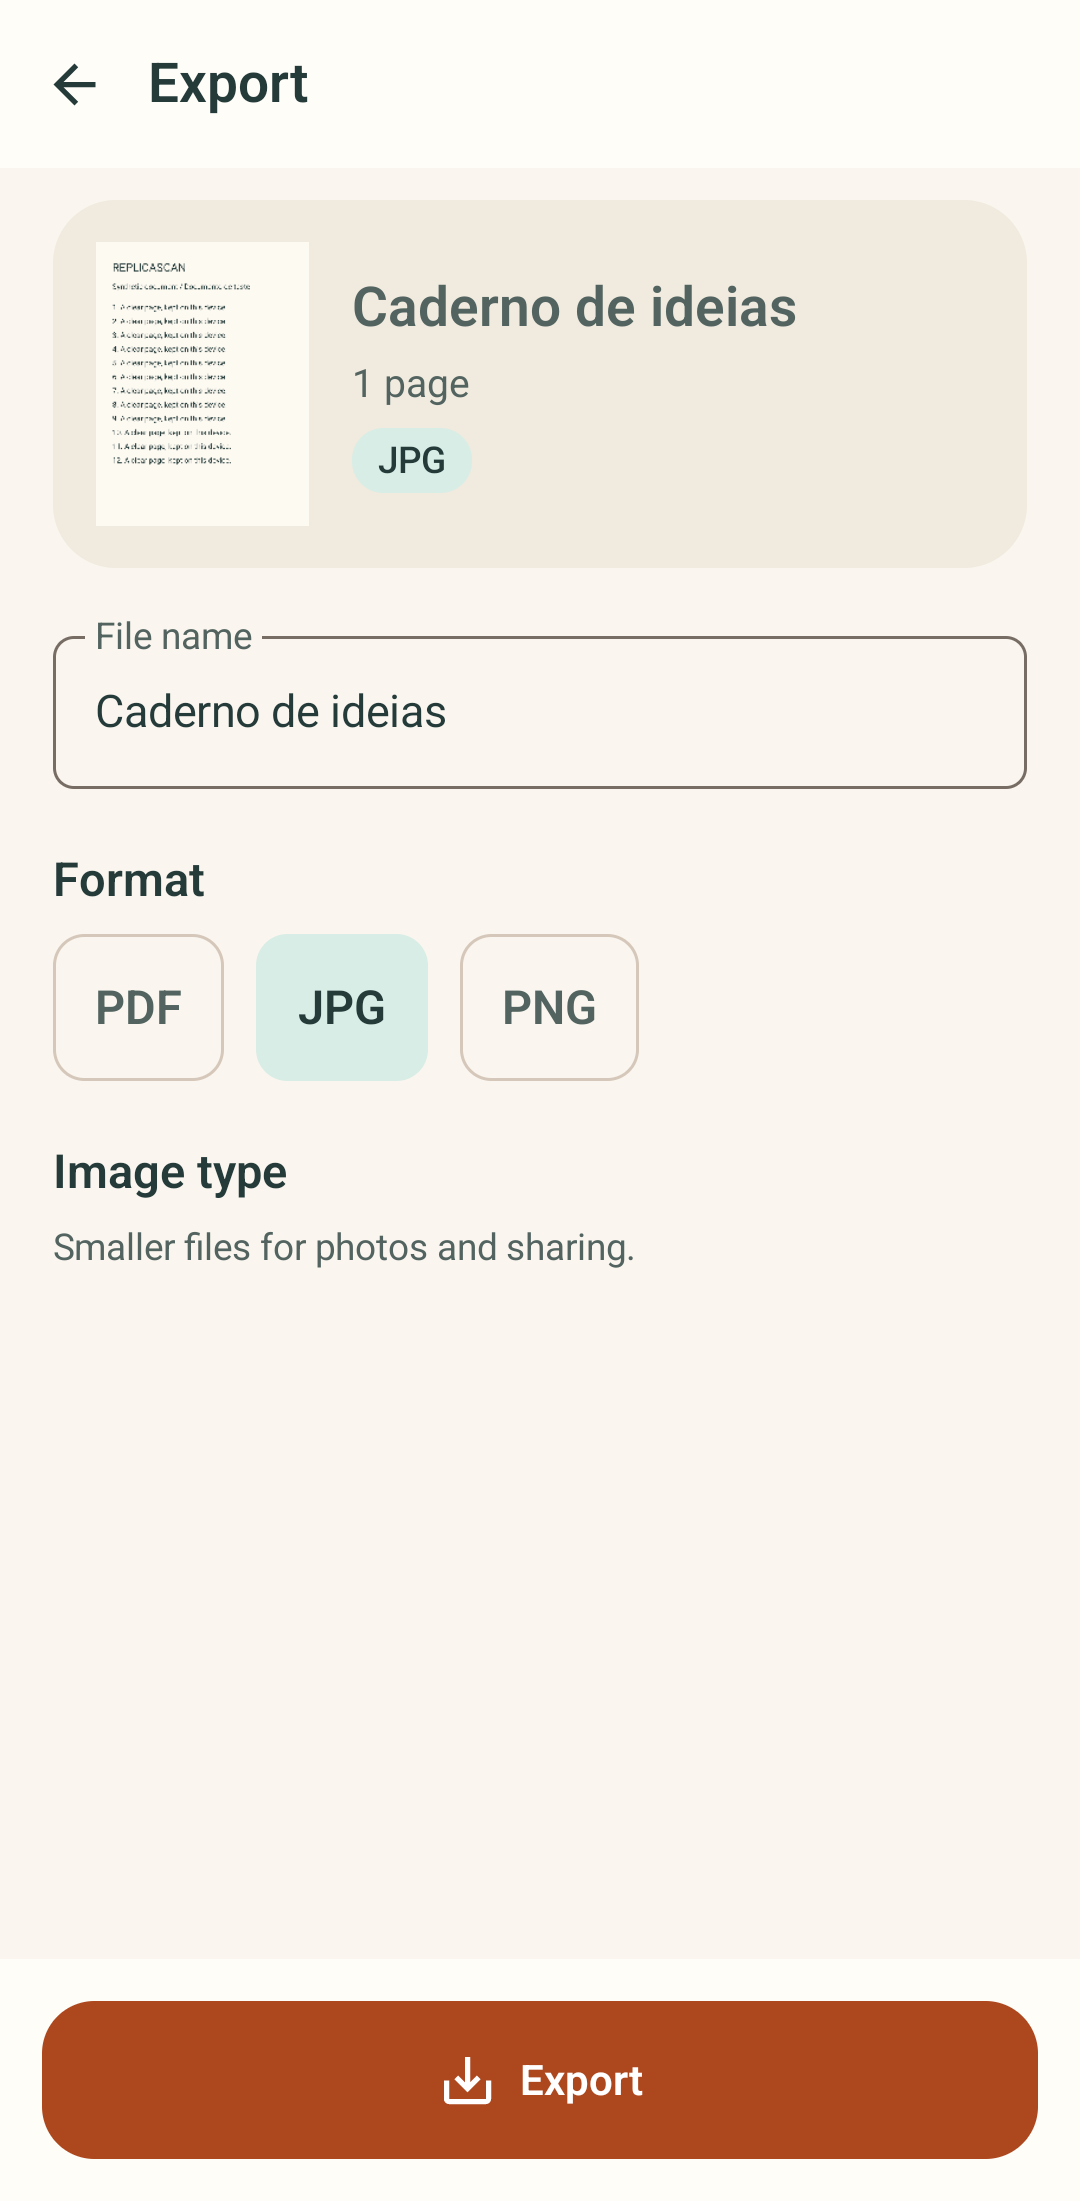
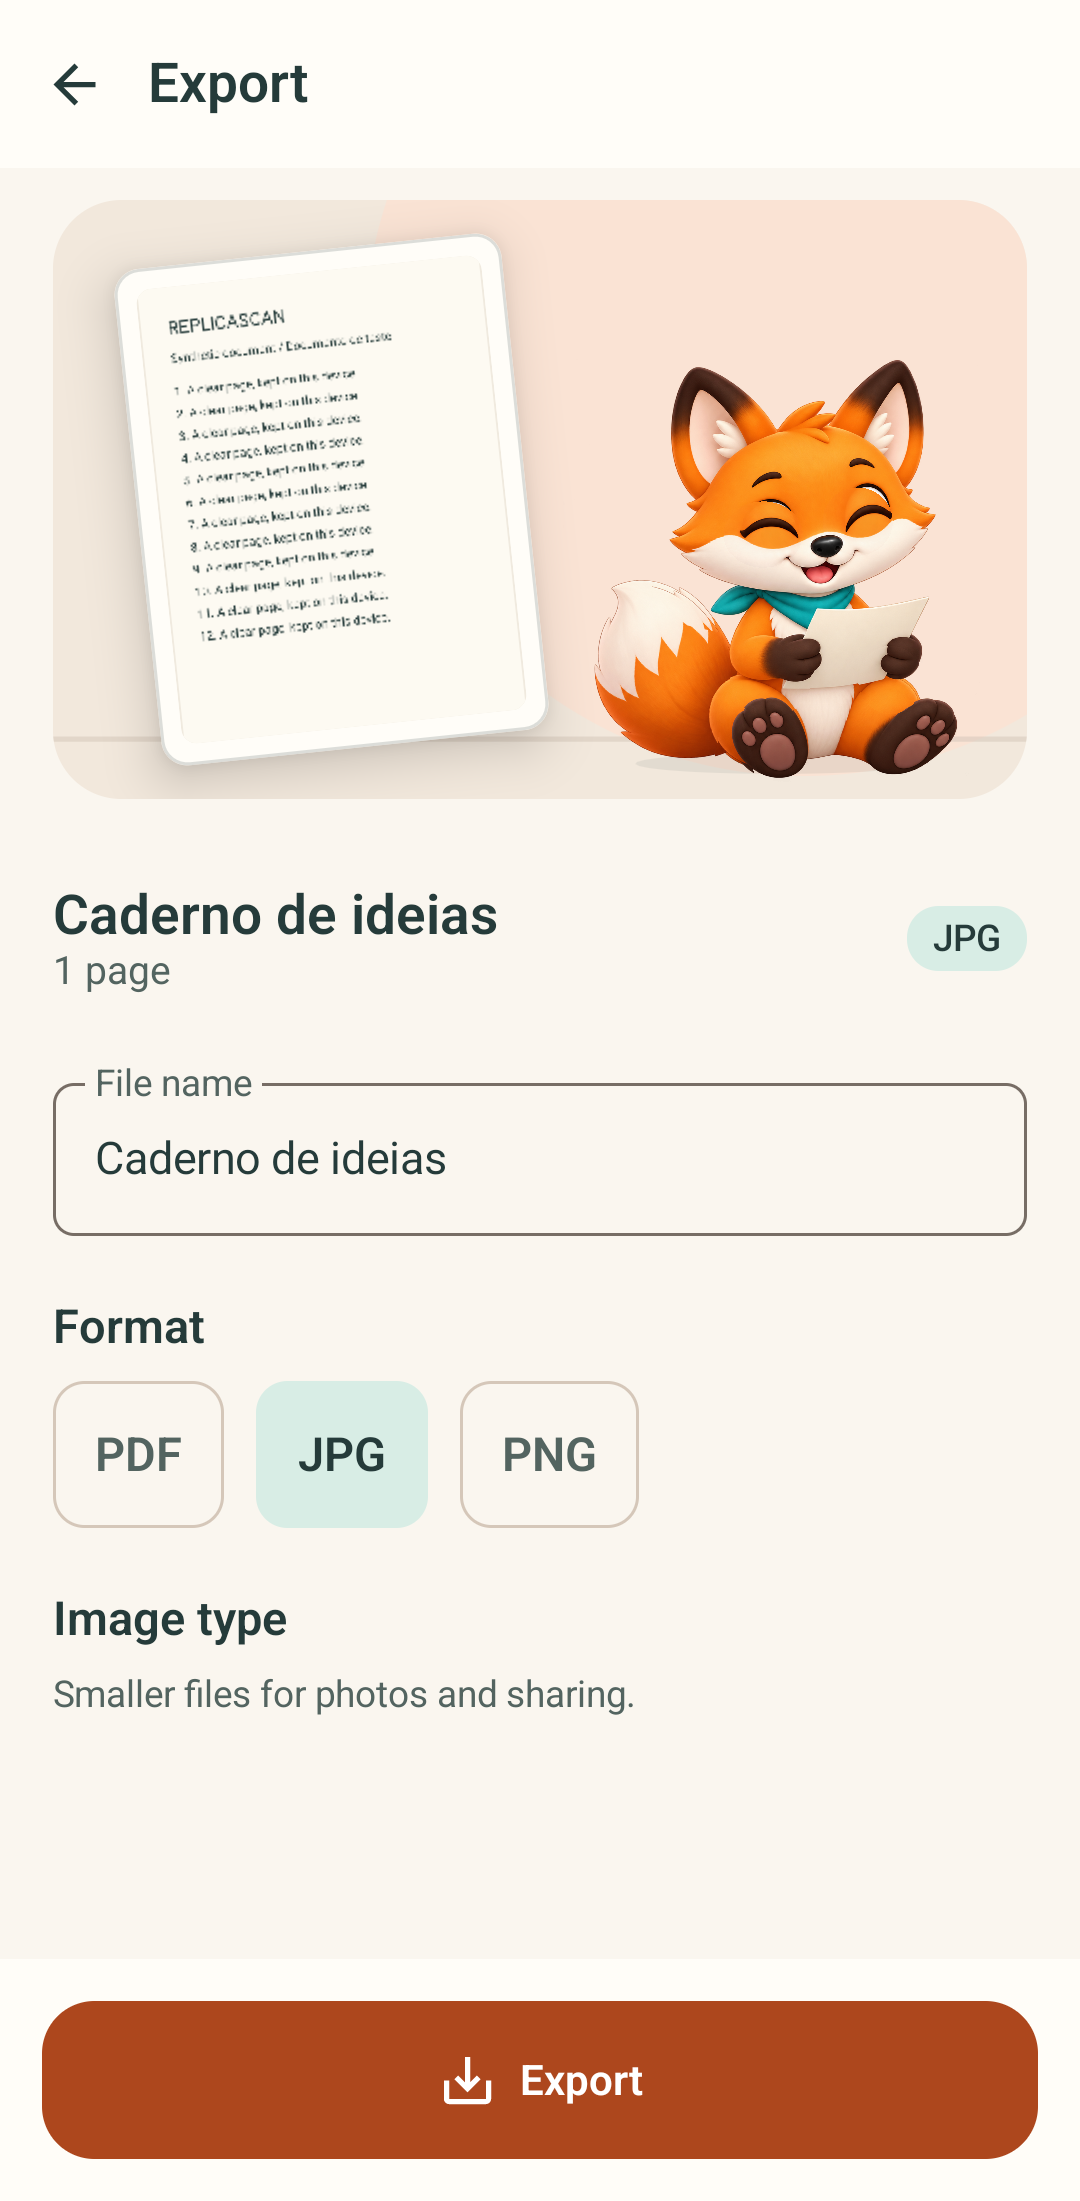
feat(export): connect native export states to document scene

diff --git a/feature-export/src/main/java/com/soturine/replicascan/feature/export/ExportScreen.kt b/feature-export/src/main/java/com/soturine/replicascan/feature/export/ExportScreen.kt
@@ -2,7 +2,11 @@ package com.soturine.replicascan.feature.export
 
 import androidx.activity.compose.BackHandler
 import androidx.compose.foundation.layout.Row
+import androidx.compose.foundation.layout.Box
 import androidx.compose.foundation.layout.size
+import androidx.compose.foundation.Canvas
+import androidx.compose.foundation.background
+import androidx.compose.foundation.border
 import androidx.compose.material3.OutlinedTextField
 import androidx.compose.ui.platform.testTag
 import androidx.compose.ui.layout.ContentScale
@@ -16,8 +20,10 @@ import androidx.compose.foundation.layout.FlowRow
 import androidx.compose.foundation.layout.Spacer
 import androidx.compose.foundation.layout.fillMaxSize
 import androidx.compose.foundation.layout.fillMaxWidth
+import androidx.compose.foundation.layout.height
 import androidx.compose.foundation.layout.heightIn
 import androidx.compose.foundation.layout.navigationBarsPadding
+import androidx.compose.foundation.layout.offset
 import androidx.compose.foundation.layout.padding
 import androidx.compose.foundation.layout.width
 import androidx.compose.foundation.rememberScrollState
@@ -50,6 +56,13 @@ import androidx.compose.runtime.saveable.rememberSaveable
 import androidx.compose.runtime.setValue
 import androidx.compose.ui.Alignment
 import androidx.compose.ui.Modifier
+import androidx.compose.ui.draw.clip
+import androidx.compose.ui.draw.shadow
+import androidx.compose.ui.geometry.Offset
+import androidx.compose.ui.graphics.graphicsLayer
+import androidx.compose.ui.graphics.luminance
+import androidx.compose.ui.platform.LocalDensity
+import androidx.compose.foundation.shape.RoundedCornerShape
 import androidx.compose.ui.res.pluralStringResource
 import androidx.compose.ui.res.stringResource
 import androidx.compose.ui.semantics.LiveRegionMode
@@ -149,7 +162,7 @@ fun ExportScreen(
             modifier = Modifier.fillMaxSize().padding(innerPadding),
         ) { done ->
             if (done == 2) {
-                ExportDone(state.exportedFiles, warning = messageText, onOpenFile = onOpenFile, onShare = onShare)
+                ExportDone(scan, state.exportedFiles, warning = messageText, onOpenFile = onOpenFile, onShare = onShare)
             } else if (done == 1) {
                 ExportProgress(scan)
             } else {
@@ -188,23 +201,42 @@ private fun ExportOptions(
         modifier = Modifier.fillMaxSize().verticalScroll(rememberScrollState()).padding(horizontal = 20.dp, vertical = 12.dp),
     ) {
         ReplicaScanContent {
-            Surface(shape = MaterialTheme.shapes.large, color = MaterialTheme.colorScheme.surfaceContainer) {
-                Row(Modifier.fillMaxWidth().padding(16.dp), verticalAlignment = Alignment.CenterVertically, horizontalArrangement = Arrangement.spacedBy(16.dp)) {
-                    AsyncUriImage(state.scan?.coverPage?.displayUri, fallbackImageUri = state.scan?.coverPage?.sourceUri,
-                        modifier = Modifier.size(82.dp, 108.dp), contentScale = ContentScale.Fit, maxDimension = 240)
-                    Column(Modifier.weight(1f), verticalArrangement = Arrangement.spacedBy(8.dp)) {
-                        Text(state.scan?.title.orEmpty(), style = MaterialTheme.typography.titleLarge)
-                        Text(pluralStringResource(R.plurals.export_summary, pageCount, pageCount),
-                            style = MaterialTheme.typography.bodyMedium, color = MaterialTheme.colorScheme.onSurfaceVariant)
-                        Surface(shape = MaterialTheme.shapes.small, color = MaterialTheme.colorScheme.secondaryContainer) {
-                            Text(state.selectedFormat.title, modifier = Modifier.padding(horizontal = 10.dp, vertical = 4.dp),
-                                style = MaterialTheme.typography.labelMedium)
-                        }
+            state.scan?.let { scan ->
+                ExportDocumentStage(
+                    scan = scan,
+                    mascotState = if (errorText == null) ReplicaScanMascotState.Ocr else ReplicaScanMascotState.Attention,
+                )
+                Row(
+                    Modifier.fillMaxWidth().padding(top = 16.dp, bottom = 8.dp),
+                    verticalAlignment = Alignment.CenterVertically,
+                    horizontalArrangement = Arrangement.spacedBy(12.dp),
+                ) {
+                    Column(Modifier.weight(1f)) {
+                        Text(scan.title, style = MaterialTheme.typography.titleLarge)
+                        Text(
+                            pluralStringResource(R.plurals.export_summary, pageCount, pageCount),
+                            style = MaterialTheme.typography.bodyMedium,
+                            color = MaterialTheme.colorScheme.onSurfaceVariant,
+                        )
+                    }
+                    Surface(shape = MaterialTheme.shapes.small, color = MaterialTheme.colorScheme.secondaryContainer) {
+                        Text(state.selectedFormat.title, modifier = Modifier.padding(horizontal = 10.dp, vertical = 4.dp),
+                            style = MaterialTheme.typography.labelMedium)
                     }
                 }
             }
             if (errorText != null) {
-                EmptyStateCard(stringResource(R.string.export_recovery), errorText, mascotState = ReplicaScanMascotState.Attention)
+                Column(
+                    Modifier.fillMaxWidth().background(
+                        MaterialTheme.colorScheme.error.copy(alpha = .08f),
+                        MaterialTheme.shapes.medium,
+                    ).padding(16.dp).semantics { liveRegion = LiveRegionMode.Polite },
+                    verticalArrangement = Arrangement.spacedBy(4.dp),
+                ) {
+                    Text(stringResource(R.string.export_recovery), style = MaterialTheme.typography.titleMedium,
+                        color = MaterialTheme.colorScheme.error)
+                    Text(errorText, style = MaterialTheme.typography.bodyMedium)
+                }
             }
             OutlinedTextField(value = fileName, onValueChange = onNameChange, modifier = Modifier.fillMaxWidth(),
                 label = { Text(stringResource(R.string.export_filename)) }, singleLine = true, isError = !nameValid,
@@ -279,6 +311,71 @@ private fun ExportOptions(
 }
 
 @Composable
+private fun ExportDocumentStage(scan: ScanDocument, mascotState: ReplicaScanMascotState) {
+    val colors = MaterialTheme.colorScheme
+    val largeText = LocalDensity.current.fontScale >= 1.5f
+    val isDark = colors.background.luminance() < .5f
+    val paperColor = if (isDark) colors.inverseSurface else colors.surface
+    val paperInk = if (isDark) colors.inverseOnSurface else colors.onSurface
+    val stageShape = RoundedCornerShape(26.dp)
+    val pageShape = RoundedCornerShape(10.dp)
+    val pageAlignment = if (largeText) Alignment.Center else Alignment.CenterStart
+    val pageInset = if (largeText) Modifier else Modifier.padding(start = 32.dp)
+    val pageWidth = if (largeText) 130.dp else 148.dp
+    val pageHeight = if (largeText) 164.dp else 190.dp
+    Box(
+        Modifier.fillMaxWidth().height(if (largeText) 188.dp else 228.dp)
+            .clip(stageShape).background(colors.surfaceContainerHigh),
+    ) {
+        Canvas(Modifier.matchParentSize()) {
+            drawCircle(
+                colors.primaryContainer.copy(alpha = .6f),
+                radius = size.width * .45f,
+                center = Offset(size.width * .77f, size.height * .23f),
+            )
+            drawLine(colors.outlineVariant.copy(alpha = .55f),
+                Offset(0f, size.height * .9f), Offset(size.width, size.height * .9f),
+                strokeWidth = 2.dp.toPx())
+        }
+        if (scan.pageCount > 1) {
+            Box(
+                Modifier.align(pageAlignment).then(pageInset)
+                    .offset(x = 12.dp, y = (-7).dp)
+                    .size(width = pageWidth, height = pageHeight)
+                    .graphicsLayer { rotationZ = if (largeText) 0f else -2f }
+                    .shadow(8.dp, pageShape)
+                    .background(paperColor, pageShape)
+                    .border(1.dp, paperInk.copy(alpha = .13f), pageShape),
+            )
+        }
+        Box(
+            modifier = Modifier.align(pageAlignment).then(pageInset)
+                .size(width = pageWidth, height = pageHeight)
+                .graphicsLayer { rotationZ = if (largeText) 0f else -6f }
+                .shadow(12.dp, pageShape)
+                .background(paperColor, pageShape)
+                .border(1.dp, paperInk.copy(alpha = .16f), pageShape)
+                .padding(8.dp),
+        ) {
+            AsyncUriImage(
+                scan.coverPage?.displayUri,
+                fallbackImageUri = scan.coverPage?.sourceUri,
+                modifier = Modifier.fillMaxSize().clip(RoundedCornerShape(6.dp)),
+                contentScale = ContentScale.Fit,
+                maxDimension = 400,
+            )
+        }
+        if (!largeText) {
+            ReplicaScanMascot(
+                mascotState,
+                size = 174.dp,
+                modifier = Modifier.align(Alignment.BottomEnd).offset(x = (-8).dp),
+            )
+        }
+    }
+}
+
+@Composable
 private fun Section(title: String, content: @Composable () -> Unit) {
     Column(modifier = Modifier.fillMaxWidth().padding(top = 8.dp), verticalArrangement = Arrangement.spacedBy(10.dp)) {
         Text(title, style = MaterialTheme.typography.titleMedium, modifier = Modifier.semantics { heading() })
@@ -288,6 +385,7 @@ private fun Section(title: String, content: @Composable () -> Unit) {
 
 @Composable
 private fun ExportDone(
+    scan: ScanDocument,
     files: List<ExportedFile>,
     warning: String?,
     onOpenFile: (ExportedFile) -> Unit,
@@ -302,7 +400,7 @@ private fun ExportDone(
         horizontalAlignment = Alignment.CenterHorizontally,
         verticalArrangement = Arrangement.spacedBy(12.dp, Alignment.CenterVertically),
     ) {
-        ReplicaScanMascot(ReplicaScanMascotState.Success, size = 140.dp)
+        ExportDocumentStage(scan, ReplicaScanMascotState.Success)
         Text(
             text = stringResource(R.string.export_done_title),
             style = MaterialTheme.typography.headlineSmall,
@@ -364,20 +462,12 @@ private fun ExportProgress(scan: ScanDocument) {
         horizontalAlignment = Alignment.CenterHorizontally,
         verticalArrangement = Arrangement.spacedBy(20.dp, Alignment.CenterVertically),
     ) {
-        Surface(Modifier.fillMaxWidth(), shape = MaterialTheme.shapes.large,
-            color = MaterialTheme.colorScheme.surfaceContainer) {
-            Row(Modifier.padding(16.dp), verticalAlignment = Alignment.CenterVertically,
-                horizontalArrangement = Arrangement.spacedBy(16.dp)) {
-                AsyncUriImage(scan.coverPage?.displayUri, fallbackImageUri = scan.coverPage?.sourceUri,
-                    modifier = Modifier.size(64.dp, 84.dp), contentScale = ContentScale.Fit, maxDimension = 240)
-                Column(Modifier.weight(1f), verticalArrangement = Arrangement.spacedBy(4.dp)) {
-                    Text(scan.title, style = MaterialTheme.typography.titleMedium)
-                    Text(pluralStringResource(R.plurals.export_summary, scan.pageCount, scan.pageCount),
-                        style = MaterialTheme.typography.bodyMedium, color = MaterialTheme.colorScheme.onSurfaceVariant)
-                }
-            }
+        ExportDocumentStage(scan, ReplicaScanMascotState.Working)
+        Column(horizontalAlignment = Alignment.CenterHorizontally) {
+            Text(scan.title, style = MaterialTheme.typography.titleMedium, textAlign = TextAlign.Center)
+            Text(pluralStringResource(R.plurals.export_summary, scan.pageCount, scan.pageCount),
+                style = MaterialTheme.typography.bodyMedium, color = MaterialTheme.colorScheme.onSurfaceVariant)
         }
-        ReplicaScanMascot(ReplicaScanMascotState.Working, size = 208.dp)
         Text(stringResource(R.string.export_progress), style = MaterialTheme.typography.headlineMedium,
             textAlign = TextAlign.Center, modifier = Modifier.semantics { liveRegion = LiveRegionMode.Polite })
         LinearProgressIndicator(Modifier.fillMaxWidth())

diff --git a/site/index.html b/site/index.html
@@ -102,13 +102,13 @@
             <span class="step-tag">02</span>
             <h3>Preparar</h3>
             <img class="screen-capture" src="assets/export.png" alt="Opções de nome, formato e qualidade da exportação." width="1080" height="2201" loading="lazy" />
-            <p>Escolha nome, PDF, JPG ou PNG. As opções dependem do formato.</p>
+            <p>Veja a página real, escolha nome, PDF, JPG ou PNG e ajuste as opções do formato.</p>
           </article>
           <article class="card card-soft">
             <span class="step-tag">03</span>
             <h3>Salvar</h3>
             <img class="screen-capture" src="assets/export-progress.png" alt="Estado de exportação com raposa animada e indicador de trabalho." width="1080" height="2201" loading="lazy" />
-            <p>Acompanhe o trabalho. Ao concluir, abra ou compartilhe os arquivos salvos.</p>
+            <p>Acompanhe a mesma página durante a gravação. Ao concluir, abra ou compartilhe os arquivos salvos.</p>
           </article>
         </div>
       </section>

diff --git a/README.md b/README.md
@@ -27,7 +27,7 @@ Não há conta, backend, sincronização ou upload obrigatório de documentos. C
 
 ## Redesign e evidência
 
-A base da v0.4.1 traz papel marfim, tinta petróleo e terracota, revisão de telas, crop com cantos independentes e exportação com nome de arquivo, progresso e recuperação persistente. O visual do ciclo anterior foi rejeitado pelo proprietário. Um novo master e sete poses baseados na raposa da v0.4.0 receberam aceite como arte estática. A pose de atenção teve patas extras corrigidas e um rig candidato com camadas independentes foi capturado no Android. A Home agora integra a raposa à cena de papel e prioriza Escanear inclusive com fonte 200%; exportação e introdução ainda estão em revisão. Animação, ícone e conjunto das telas continuam sem aceite final.
+A base da v0.4.1 traz papel marfim, tinta petróleo e terracota, revisão de telas, crop com cantos independentes e exportação com nome de arquivo, progresso e recuperação persistente. O visual do ciclo anterior foi rejeitado pelo proprietário. Um novo master e sete poses baseados na raposa da v0.4.0 receberam aceite como arte estática. A pose de atenção teve patas extras corrigidas e um rig candidato com camadas independentes foi capturado no Android. A Home integra a raposa à cena de papel e prioriza Escanear inclusive com fonte 200%; a exportação conecta prévia real e raposa em preparo, progresso, sucesso e erro. Introdução, animação, ícone e conjunto das telas continuam sem aceite final.
 
 Veja a [auditoria de recuperação visual](docs/design/visual-recovery/AUDIT.md), a [prancha das poses](docs/design/visual-recovery/candidates/review.html), o [clipe e as capturas Android atuais](docs/design/visual-recovery/evidence/README.md), a [revisão por tela](docs/design/visual-recovery/SCREEN_REVIEW.md) e a [matriz de validação](docs/design/visual-recovery/VALIDATION_MATRIX.md). O material novo usa estados injetados e documento sintético; não substitui QA físico, TalkBack humano, revisão linguística nativa ou aceite final.
 

diff --git a/docs/design/visual-recovery/evidence/README.md b/docs/design/visual-recovery/evidence/README.md
@@ -4,9 +4,9 @@
 Android 14 / API 34, com APK debug da v0.4.1 em desenvolvimento. As capturas
 medem 1080×2201 px, usam a localização inglesa do emulador, documento
 sintético e estados injetados; não demonstram captura física, OCR real ou
-escrita de exportação. `export-progress.png` foi recapturada após incluir a
-prévia da página real na composição. Home e opções de exportação foram
-recapturadas após a revisão de composição; as três páginas de introdução
+escrita de exportação. Preparo, gravação, sucesso, erro e aviso da biblioteca
+na exportação foram recapturados em 2026-10-13 com a mesma cena nativa da
+folha real e da raposa, variando a pose conforme o estado. As três páginas de introdução
 foram recapturadas após receber poses distintas. A Home foi recapturada em
 2026-10-13 com cena de papel e raposa, botão principal ampliado, estado vazio
 sem cartão e folha iluminada no tema escuro; `home-dark-200.png` documenta a
@@ -34,8 +34,8 @@ composição das telas e release ainda precisam de aceite expresso. O antigo
 `docs/design/evidence/` permanece como baseline rejeitado.
 
 Pontos abertos para esta revisão: a Home ainda deixa espaço inferior vazio
-quando a biblioteca é curta; as opções de exportação conservam controles de
-formulário e o progresso ainda precisa de uma cena melhor ligada ao documento;
+quando a biblioteca é curta; a exportação ainda precisa de validação visual
+em documentos físicos e prova de gravação completa fora do fixture sintético;
 o ícone vetorial usa linguagem mais plana que a mascote; o rig candidato
 articula regiões das poses, mas ainda depende de máscaras sobre imagens
 completas. A inspeção manual de transições, recorte com

diff --git a/CHANGELOG.md b/CHANGELOG.md
@@ -7,6 +7,7 @@ Este projeto segue Semantic Versioning e recomenda Conventional Commits no fluxo
 - Recuperação visual em andamento após rejeição do redesign anterior: master e poses baseados na raposa da v0.4.0 aprovados como arte estática; movimento e telas ainda pendentes de aceite.
 - Rig Compose candidato articula cabeça, cauda, patas, folha e piscadas em camadas de renderização; a pose de atenção teve patas extras removidas. Clipe Android v2 e frames consecutivos publicados para revisão, ainda sem aceite final do movimento.
 - Home recomposta com a raposa diante de uma folha iluminada, botão Escanear mais evidente e estado vazio sem cartão pesado; em fonte 200% a ilustração cede espaço às ações. Capturas nativas claras e escuras atualizadas.
+- Exportação recomposta em quatro cenas ligadas à prévia real do documento: preparo com opções progressivas, trabalho com progresso, sucesso com arquivo e ações, erro com recuperação. A folha mantém iluminação no tema escuro e forma pilha quando há várias páginas; callbacks e estados de gravação existentes foram preservados.
 - Atlas deformado substituído por poses completas em Compose, com movimento discreto, respeito ao lifecycle/redução de movimento e clipe de frames Android. Exportação em andamento voltou a mostrar prévia e identificação da página.
 - Home com mascote mais legível e texto em largura completa; em fonte 200% a arte cede espaço ao conteúdo. Opções de exportação reúnem prévia, páginas e formato atual na mesma superfície.
 - Introdução usa saudação, leitura e sucesso nas três páginas, eliminando a repetição da pose de trabalho.
